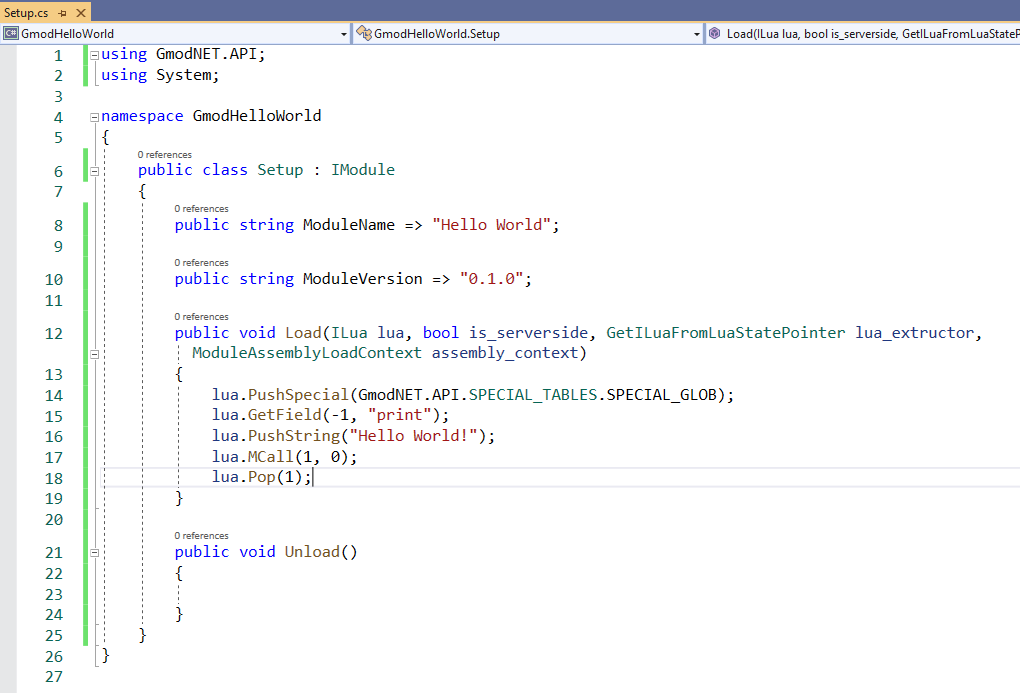
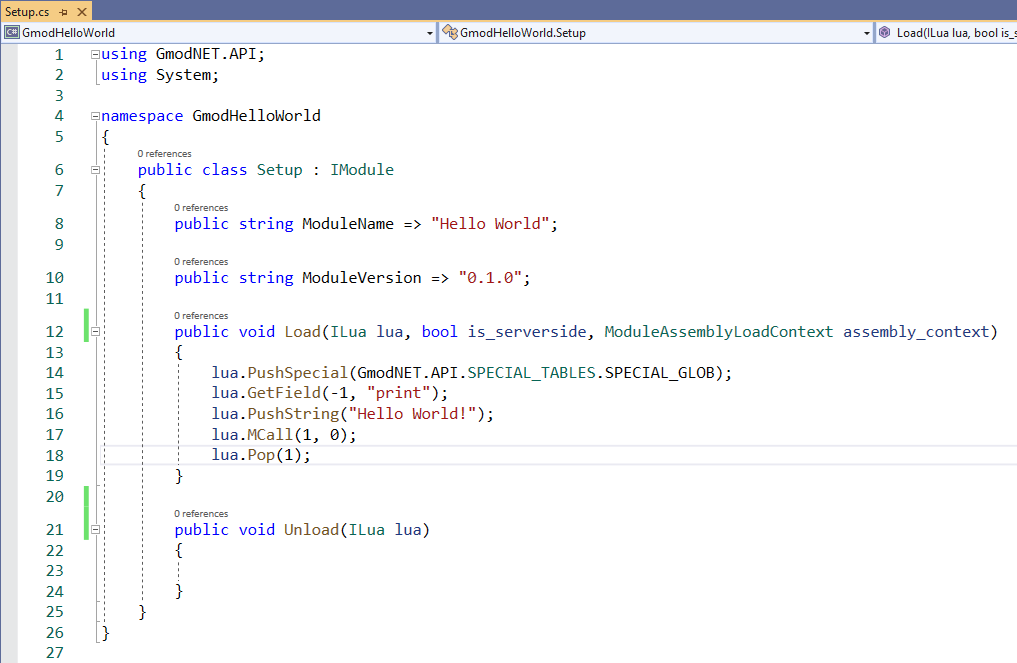
Update hello world fully to .NET 5.0

diff --git a/docfx_project/articles/tutorials/hello-world-detailed/index.md b/docfx_project/articles/tutorials/hello-world-detailed/index.md
@@ -57,15 +57,10 @@ Follow [the instructions in the README](https://github.com/GmodNET/GmodDotNet#in
 3. Confirm your `garrysmod/lua/bin/` directory contains at least these files and folders:
 ![binary folder structure](../hello-world/images/bin-folder-structure.png)
 
-4. You have copied `gmod-dot-net-lua-server.X.Y.Z.lua` to `garrysmod/lua/autorun/server/`
-
-5. You have copied `gmod-dot-net-lua-client.X.Y.Z.lua`  to `garrysmod/lua/autorun/client/`
-
-
 
 ## Tutorial Overview
 
-In this tutorial we'll take you through the process of creating a simple 'Hello World!' module. It will simply print 'Hello World!' to the console. The great thing about that is that you will have learnt the basics of creating a Gmod.NET module. We'll use **Visual Studio 2019**, **C#** (pronounce: C-Sharp) and the **.NET Core** (pronounce: dot net core) framework.
+In this tutorial we'll take you through the process of creating a simple 'Hello World!' module. It will simply print 'Hello World!' to the console. The great thing about that is that you will have learnt the basics of creating a Gmod.NET module. We'll use **Visual Studio 2019**, **C#** (pronounce: C-Sharp) and the **.NET 5.0** (pronounce: dot net 5) framework.
 
 These are the subjects we will be discussing:
 
@@ -111,9 +106,7 @@ Let's make sure we really have ALL required components.
    * **.NET SDK**
    * **NuGet Package manager**
    * **C# and Visual Basic**
-   * **.NET Core 3.1 Runtime (LTS)**
-
-![Install individual components](../hello-world/images/visual-studio-indiv-components.png)
+   * **.NET 5.0 Runtime**
 
 4. Now click **Install** at the bottom of the installer.
 
@@ -160,11 +153,10 @@ The solution name is the same as the project name by default. This is fine. We'l
 
 8. Click Next
 
-Visual Studio now asks which framework you wish to target. Gmod.NET requires **at least .NET Core 3.1**
+Visual Studio now asks which framework you wish to target. Gmod.NET requires **at least .NET 5.0**
 
-9. As the Target Framework choose:
-   * If you're using a release like `0.6.0` use at least: **.NET Core 3.1 (Long-term support)** 
-   * If you're using a nightly build use at least: **.NET 5.0**
+9. As the Target Framework choose **.NET 5.0**
+![.NET 5.0 project](../hello-world/images/project-net-5.png)
 
 Visual Studio will generate a Class Library (.NET Core) project for us. When it's done you will see this screen:
 
@@ -254,7 +246,7 @@ The suggestion to add `using GmodNET.API;` added that same line of code to the t
 
 **Additionally we've now got 4 new errors. Yay! Information:**
 
-![next errors](../hello-world/images/next-errors.png)
+![next errors](../hello-world/images/interface-errors.png)
 
 **IModule is an "interface". An interface forces us to add certain functionalities to our class.** IModule forces us to add functionalities explaining how the module must start and stop.
 
@@ -300,15 +292,17 @@ If we skim the rest of the code we see (amongst a lot of other code) the words L
 
 Methods sometimes get input and they sometimes return output. We can see that the Load and Unload methods don't return any output from the keyword `void` in front of the Method name. 
 
-We can see from the () behind the Unload method that it does not expect any arguments and therefor has no input. 
+We can see from the `(ILua lua)` behind the Unload method that it only expects a single argument/input.
 
-**Load is called when our module is loaded.** We will fill it with code in the next chapter.
+**Load is called by Gmod.NET when our module is loaded.** We will fill it with code in the next chapter.
 
-**Unload is called when our module needs to clean up after itself.** Unload is irrelevant for our Hello World example.
+**Unload is called by Gmod.NET when our module needs to clean up after itself.** Unload is irrelevant for our Hello World example.
 
 13. Remove `throw new NotImplementedException();` from both the Load and Unload methods:
 
 ![empty methods](../hello-world/images/methods-empty.png)
+
+`NotImplementedException` is a runtime error that helps us programmers remember to write some code. In C# we call runtime errors `Exceptions`. The `throw` keyword helps us raise such errors.
 
 **To summarize what we've learnt:**
 
@@ -319,11 +313,9 @@ We can see from the () behind the Unload method that it does not expect any argu
 * Visual Studio can help us generate the functionalities IModule requires: implementing the IModule interface
 * Properties describe a class
 * Methods explain in what sequence code needs to be executed
-
-
+* Runtime errors in C# are called Exceptions
 
 **That's it! We've setup our code and are ready to get to the main subject of today: making our module print 'Hello World!'.**
-
 
 
 ## 4. Writing module code
@@ -374,7 +366,6 @@ We can see that the Load method receives a few arguments of input:
   * A bool is short for boolean. It can contain only `true` or `false`.
   * We often use booleans for yes/no or on/off questions.
   * This argument is true if the module was loaded serverside.
-* `GetILuaFromLuaStatePointer lua_extructor` - Irrelevant for beginners, ignore it for now.
 * `ModuleAssemblyLoadContext assembly_context` - Irrelevant for beginners, ignore it for now.
 
 
@@ -442,7 +433,7 @@ We've written the code to explain what our module wants to happen: *when loading
 
 ![entire-solution](../hello-world/images/entire-solution.png)
 
-4. Inside your solution navigate to where the module was built: `<your solution location>\GmodHelloWorld\bin\Debug\netcoreapp3.1\`
+4. Inside your solution navigate to where the module was built: `<your solution location>\GmodHelloWorld\bin\Debug\net5.0\`
 
 5. If your module built successfully you'll have the following files. We'll call these "*the built module files*".
 
@@ -464,13 +455,17 @@ We've written the code to explain what our module wants to happen: *when loading
 
 
 
-### Testing
+### Running & Testing
 
 1. Start Garry's Mod
 
 2. Start a singleplayer game
 
-3. Check the console. Because we're loading the module in Singleplayer it's loaded clientside, our "Hello World!" message will appear in a yellow color:
+3. Open the Developer Console
+
+4. In order to load our module execute this Lua function: `dotnet.load` for example: `lua_run dotnet.load("GmodHelloWorld")`
+
+5. Check the console. Because we're loading the module on the server (using `lua_run`), our "Hello World!" message will appear in a blue color:
 
  ![console-output](../hello-world/images/console-output.png)
 
@@ -478,7 +473,7 @@ We've written the code to explain what our module wants to happen: *when loading
 
 
 
-### Testing
+### Making changes
 
 You'll have to rebuild and reinstall the module when you make changes in C#.
 
@@ -487,23 +482,12 @@ You'll have to rebuild and reinstall the module when you make changes in C#.
 ![file-in-use](../hello-world/images/file-in-use.png)
 
 2. Unload the module:
-   * To unload the module use `gmod_net_unload_all` for the server
-   * In our case we yse `gmod_net_unload_all_cl` to unload the module clientside (because we're in singleplayer)
+   * To unload the module execute this lua function: `dotnet.unload("GmodHelloWorld")`
+   * In our case we use `lua_run dotnet.unload("GmodHelloWorld")` to unload the module serverside (because we loaded it with `lua_run` on the server before)
 
 ![unload-all](../hello-world/images/unload-all.png)
 
 3. Now that the module is unloaded you can overwrite it with the new files.
-4. Reload it with `gmod_net_load_all` or `gmod_net_load_all_cl` for server and client respectively.
 
-
-
-
-## 6. Recap and further reading
-
-TODO: We still have to write this
-
-* What is a *Visual Studio Solution* and how does it relate to a *Project*?
-* Where can we learn more on writing C# code?
-* What exactly is a *NuGet Package* and how can it help us?
-* Other tutorials on Gmod.NET
+4. Reload the module the same way we loaded it before (with `dotnet.load("GmodHelloWorld")`)
 

diff --git a/docfx_project/articles/tutorials/hello-world/index.md b/docfx_project/articles/tutorials/hello-world/index.md
@@ -16,7 +16,7 @@ At the end of this tutorial you will have created and installed your own module 
       * .NET SDK
       * NuGet Package manager
       * C# and Visual Basic
-      * .NET Core 3.1 Runtime (LTS)
+      * .NET 5.0 Runtime
 * Windows 10 (8.1 and 7 SP1 may also work, see [Visual Studio requirements](https://docs.microsoft.com/en-us/visualstudio/releases/2019/system-requirements#visual-studio-2019-system-requirements))
 * An internet connection
 * A copy of [Garry's Mod installed through Steam](https://store.steampowered.com/app/4000/garrys_mod)
@@ -62,9 +62,8 @@ These are the subjects we will be discussing in order to create our **.NET Core*
 4. Click Next or double-click the project type
 5. Choose the project name "GmodHelloWorld" *(the naming convention is PascalCase/UpperCamelCase)*
 6. Click Next 
-7. As the Target Framework choose:
-   * If you're using a release like `0.6.0` use at least: **.NET Core 3.1 (Long-term support)** 
-   * If you're using a nightly build use at least: **.NET 5.0**
+7. As the Target Framework choose **.NET 5.0**
+![.NET 5.0 project](images/project-net-5.png)
 
 Visual Studio will generate a Class Library (.NET Core) project for us. When it's done you will see this screen:
 
@@ -188,7 +187,7 @@ The code we just added to the Load method will be executed when Gmod.NET loads o
 
 2. Go to your solution location in Windows File Explorer.
 
-3. Inside your solution navigate to where the module was built: `<your solution location>\GmodHelloWorld\bin\Debug\netcoreapp3.1\`
+3. Inside your solution navigate to where the module was built: `<your solution location>\GmodHelloWorld\bin\Debug\net5.0\`
 
 4. If your module built successfully you'll have the following files. We'll call these "*the built module files*".
 
@@ -207,13 +206,17 @@ The code we just added to the Load method will be executed when Gmod.NET loads o
 
 **The module is now installed and Gmod.NET should be able to find it.**
 
-### Testing
+### Running & Testing
 
 1. Start Garry's Mod
 
 2. Start a singleplayer game
 
-3. Check the console. Because we're loading the module in Singleplayer it's loaded clientside, our "Hello World!" message will appear in a yellow color:
+3. Open the Developer Console
+
+4. In order to load our module execute this Lua function: `dotnet.load` for example: `lua_run dotnet.load("GmodHelloWorld")`
+
+5. Check the console. Because we're loading the module on the server (using `lua_run`), our "Hello World!" message will appear in a blue color:
 
  ![console-output](images/console-output.png)
 
@@ -221,21 +224,17 @@ The code we just added to the Load method will be executed when Gmod.NET loads o
 
 
 
-### Testing
+### Making changes
 
 You'll have to rebuild and reinstall the module when you make changes in C#.
 
-1. When you reinstall the module (by copying it to: `lua/bin/Modules/GmodHelloWorld/`) you may get this error. That's because the module is in use while playing:
-
-![file-in-use](images/file-in-use.png)
-
-2. Unload the module:
-   * To unload the module use `gmod_net_unload_all` for the server
-   * In our case we yse `gmod_net_unload_all_cl` to unload the module clientside (because we're in singleplayer)
+1. Unload the module:
+   * To unload the module execute this lua function: `dotnet.unload("GmodHelloWorld")`
+   * In our case we use `lua_run dotnet.unload("GmodHelloWorld")` to unload the module serverside (because we loaded it with `lua_run` on the server before)
 
 ![unload-all](images/unload-all.png)
 
-3. Now that the module is unloaded you can overwrite it with the new files.
+2. Now that the module is unloaded you can overwrite it with the new files.
 
-4. Reload it with `gmod_net_load_all` or `gmod_net_load_all_cl` for server and client respectively.
+3. Reload the module the same way we loaded it before (with `dotnet.load("GmodHelloWorld")`)
 

diff --git a/docfx_project/articles/tutorials/connect-nightly/index.md b/docfx_project/articles/tutorials/connect-nightly/index.md
@@ -8,7 +8,7 @@ title: "Connect to nightly builds"
 
 
 # Connect to the nightly builds and use it in your project
-Connect to the latest version of Gmod.NET to use the newest features and work with the `.NET 5.0`.
+Connect to the latest version of Gmod.NET to use the newest features (`main` for `.NET 5.0`) or to test the `.NET 6.0 Preview` version on the `net6` branch.
 
 We'll create a project to test if we've got the latest version.
 
@@ -18,30 +18,21 @@ We'll create a project to test if we've got the latest version.
    * Ensure at least these individual components are installed:
       * .NET SDK
       * NuGet Package manager
+      * `.NET 5.0` if you want to use the nightly `main` branch
+* The `.NET 6.0 Preview` [(link)](https://dotnet.microsoft.com/download/dotnet/6.0) if you want to use the nightly `net6` branch.
 * Windows 10 (For more see the [Visual Studio requirements](https://docs.microsoft.com/en-us/visualstudio/releases/2019/system-requirements#visual-studio-2019-system-requirements))
 * An internet connection
 
-## Preparations
-
-The current nightly builds require at least .NET 5.0.
-
-**Install the `.NET 5.0 Runtime` component for Visual Studio 2019:**
-* Start the Visual Studio Installer through `[Start Menu] > [All Programs] > Visual Studio 2019 > Visual Studio Installer`
-* Modify your installation:
-![Modify installation](images/vs-installer-modify.png)
-* Go to Individual Components
-* Search for `.NET 5.0 Runtime`
-![.NET 5.0 component](images/vs-installer-net-5.png)
-* Click Modify in the bottom right
-
-## Start a .NET 5.0 project
+## Start a .NET project
 
 To test if we've got a working nightly version we'll create a test project.
 
 1. Start Visual Studio 2019
 2. Create a new project and solution
-3. When asked to pick a framework choose `.NET 5.0`
-![.NET 5.0 project](images/project-net-5.png)
+3. When asked to pick a framework choose:
+    * For the `net6` branches choose `.NET 6.0`
+    * In our case we'll go for the `main` branch which is built for `.NET 5.0`
+![.NET 5.0 project](../hello-world/images/project-net-5.png)
 
 ## Adding the nightly builds to NuGet
 
@@ -63,8 +54,6 @@ To test if we've got a working nightly version we'll create a test project.
 10. Ensure *Include prerelease* is selected
 11. Click GmodNET.API and install the version you'd like to use.
 
-**Currently the .main branch uses .NET 5.0.**
-
 ## Test installation
 
 1. Implement the IModule interface. (Add `: IModule` behind the class name)
@@ -75,9 +64,10 @@ To test if we've got a working nightly version we'll create a test project.
 
 ## Install the module in Garry's Mod
 
-1. Go to [https://nightly.gmodnet.xyz/](https://nightly.gmodnet.xyz/)
-2. Download the same version you selected in NuGet earlier
-3. Install it in Garry's Mod
-    **Note:** Unlike the 0.6.0 release, the latest nightly builds need no Lua files. You should only require("dotnet") somewhere you want to use it.
+To use our module we need to install the same built version of Gmod.NET to Garry's Mod.
 
-**You can now install your module and load it in Garry's Mod**
+1. Go to [https://nightly.gmodnet.xyz/](https://nightly.gmodnet.xyz/)
+2. Download the pre-built version of Gmod.NET that you selected in NuGet earlier
+3. Install it in Garry's Mod `lua/bin`
+
+**You can now install your own .NET modules to `lua/bin/Modules` and load them in Garry's Mod**
